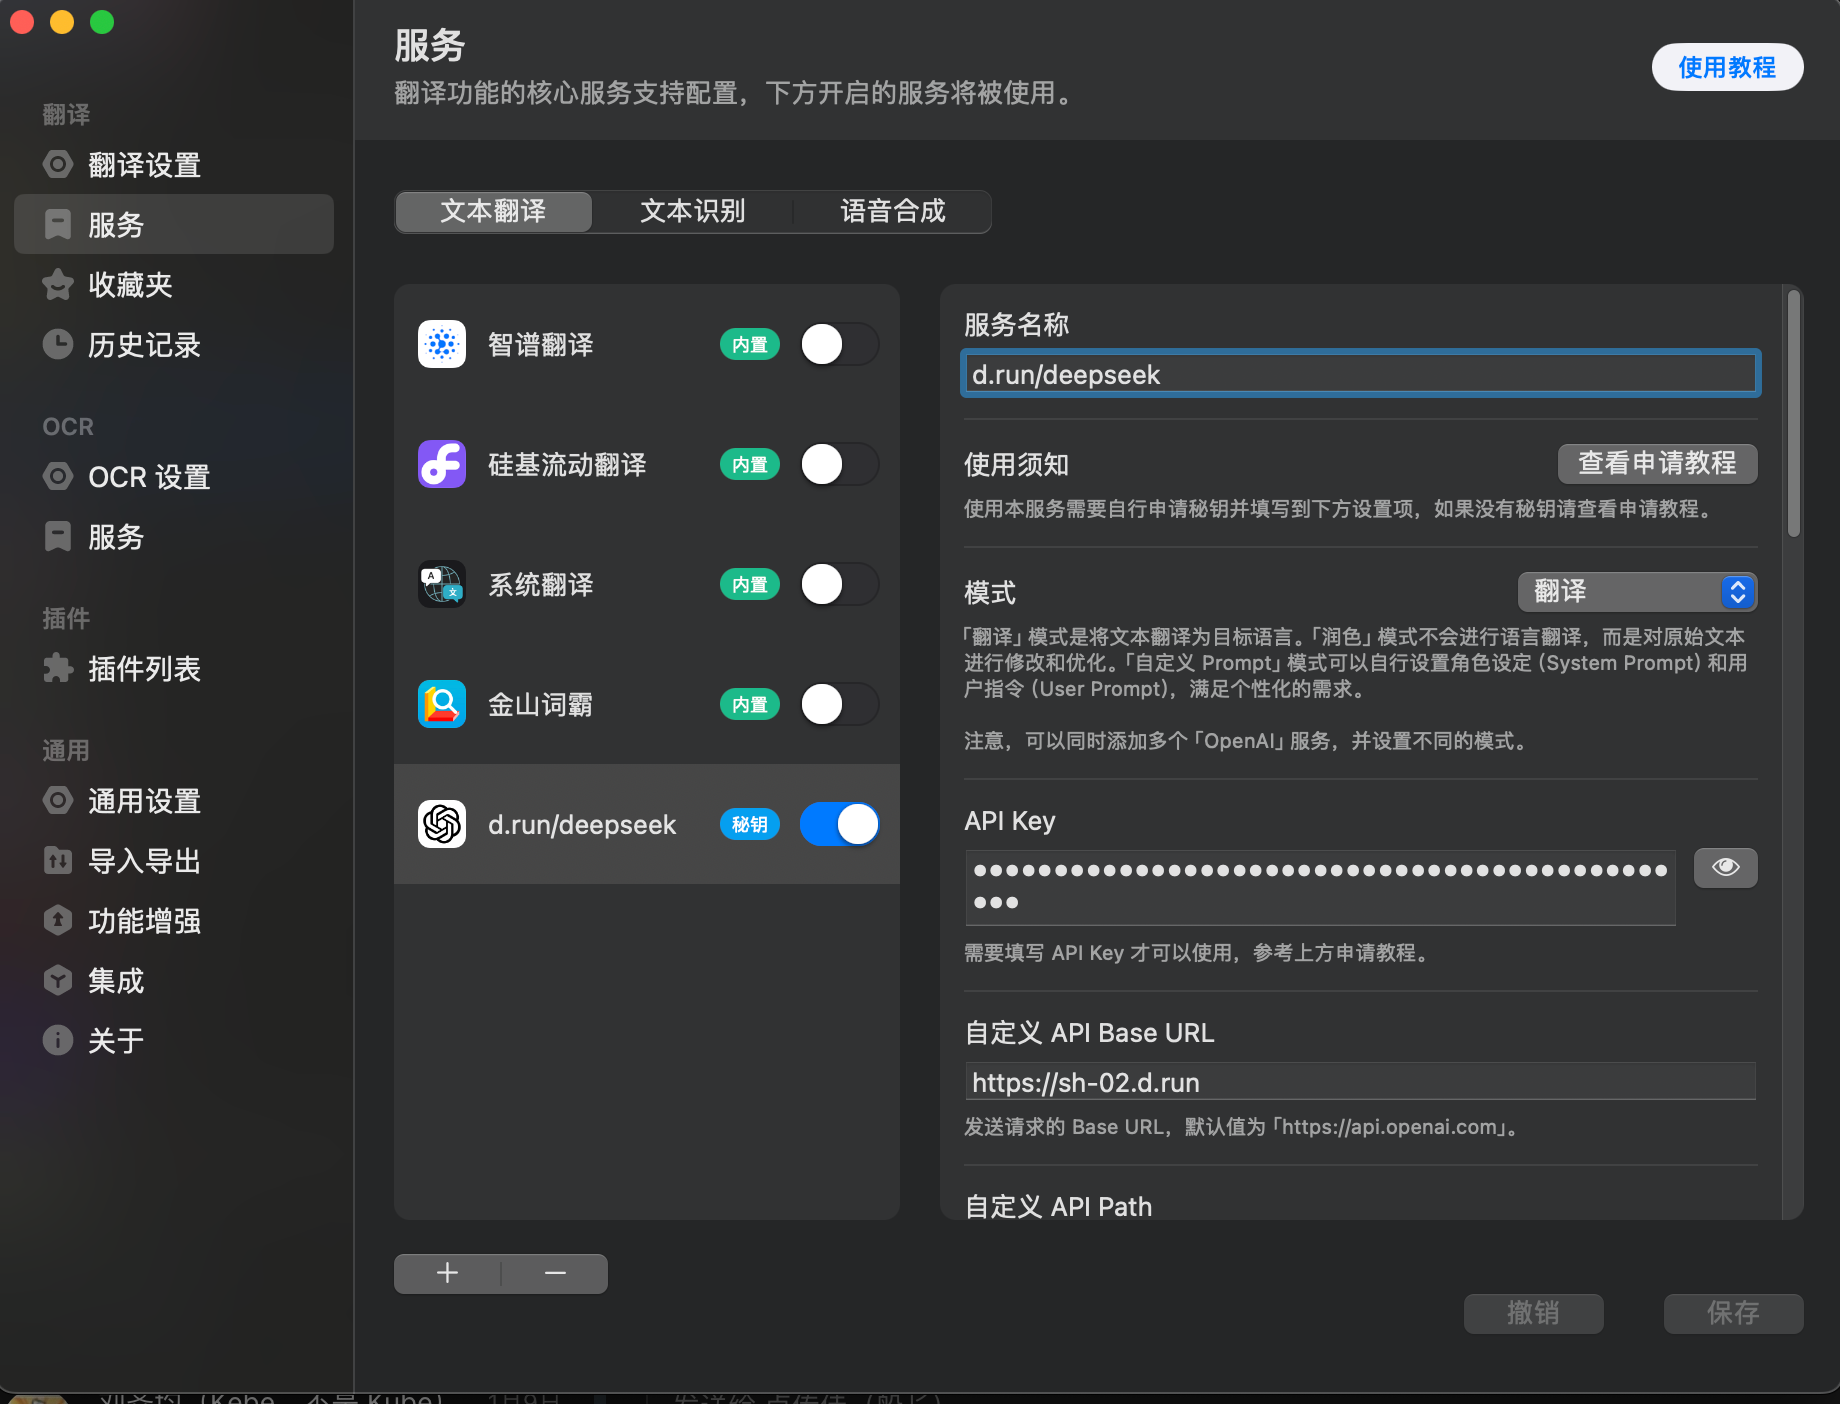
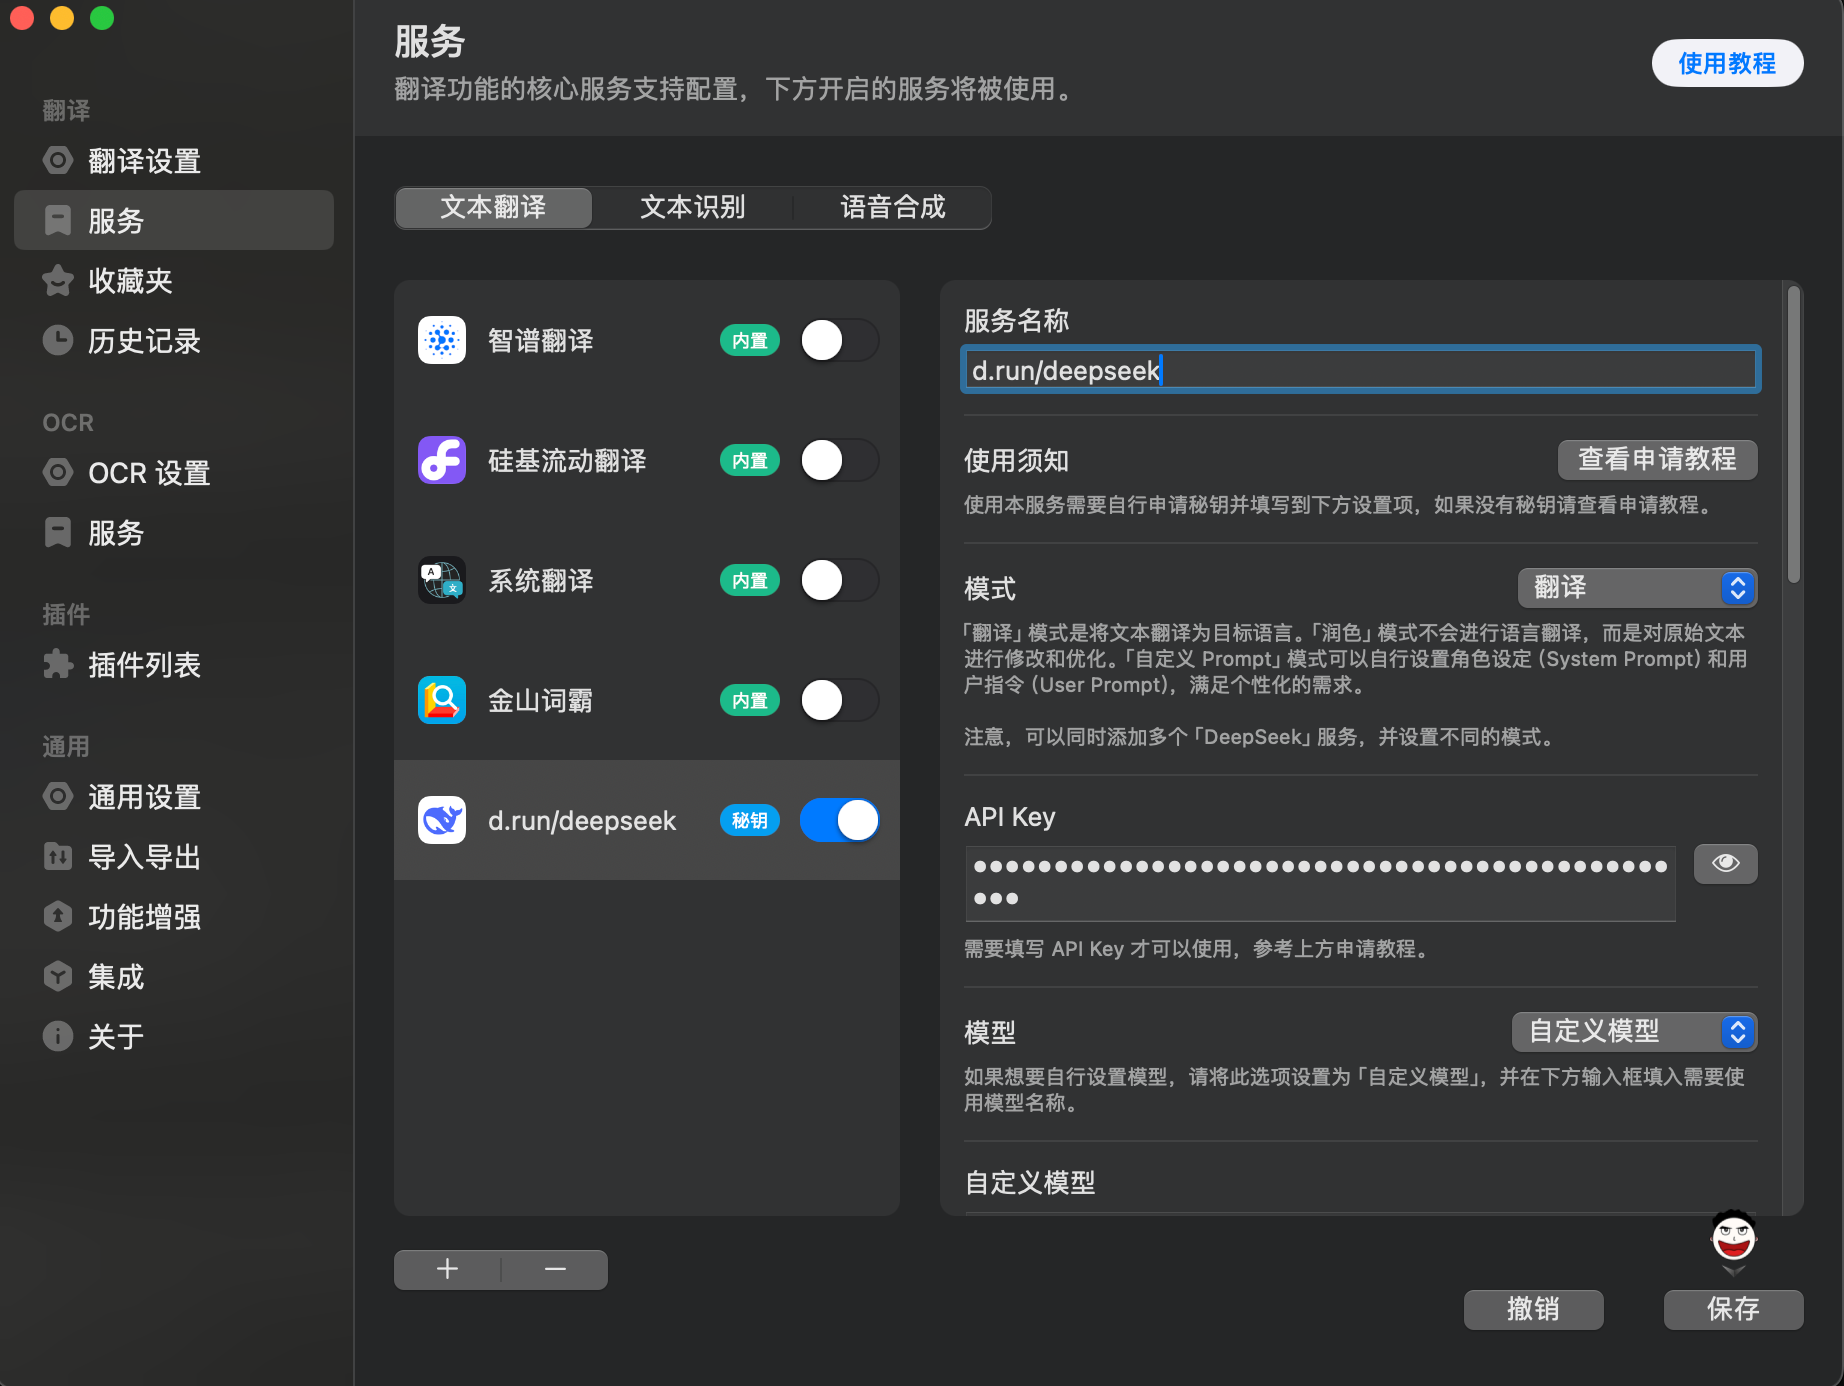
update an image

diff --git a/docs/zh/docs/blogs/2025/0210-deep-drun.md b/docs/zh/docs/blogs/2025/0210-deep-drun.md
@@ -89,7 +89,7 @@ d.run 目前为 DeepSeek 模型提供了免费一周的体验时间，
     | **服务名称** | d.run.deepseek |
     | **API Key** | 输入刚生成的 Key |
     | **自定义 API Base URL** | `https://sh-02.d.run` |
-    | **自定义 API Path** | `/v1/chat/completions` |
+    | **自定义 API Path** | 默认不填或 `/v1/chat/completions` |
     | **模型** | 自定义模型 |
     | **自定义模型** | DeepSeek-R1-Distill-Qwen-14B |
 
@@ -110,7 +110,7 @@ d.run 目前为 DeepSeek 模型提供了免费一周的体验时间，
          }'
         ```
 
-1. 现在让 Bob Translate 翻译一句话
+1. 现在试着让 Bob Translate 翻译一句话
 
     ![填写参数](./images/deep13.jpeg)
 
